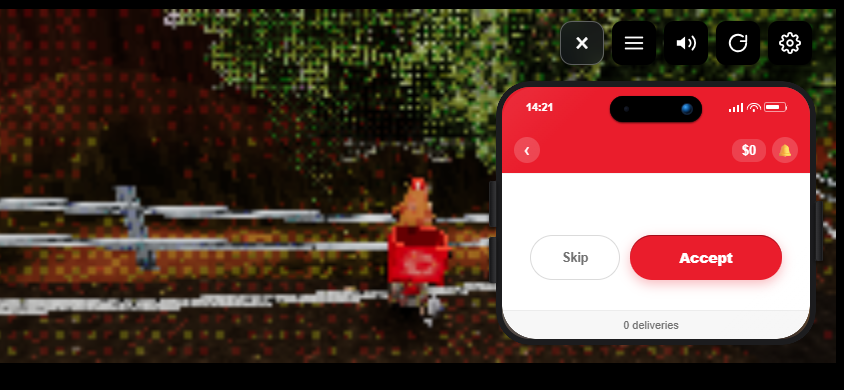
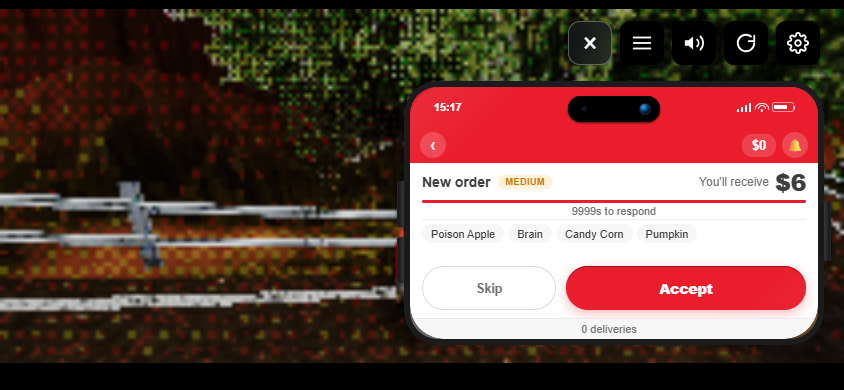
fix(mobile): preserve input startup through slow loading and fit landscape offers

diff --git a/artifacts/capybara-delivery/src/lib/input/index.ts b/artifacts/capybara-delivery/src/lib/input/index.ts
@@ -43,12 +43,11 @@ export interface OkadaInputOptions {
 }
 
 const generations = new WeakMap<Window, { dispose?: () => void }>();
-const RESOLVE_TIMEOUT_MS = 60000;
 const RESOLVE_POLL_MS = 250;
 
 /**
  * Initialize the Okada input system against a game iframe.
- * Returns null if the engine input object could not be resolved (or was aborted).
+ * Waits for normal engine startup; returns null if this generation is cancelled.
  */
 export async function initOkadaInput(
   win: Window,
@@ -62,29 +61,40 @@ export async function initOkadaInput(
   const adapter = new OkadaEngineAdapter();
   const touch = new TouchInputSource(doc, manager);
   const gamepad = new GamepadInputSource(manager);
+  const pending = new AbortController();
+  let pendingDisposed = false;
+  const removePendingListeners = () => {
+    win.removeEventListener("pagehide", disposePending);
+    options.signal?.removeEventListener("abort", disposePending);
+  };
+  const disposePending = () => {
+    if (pendingDisposed) return;
+    pendingDisposed = true;
+    pending.abort();
+    removePendingListeners();
+    touch.detach();
+    gamepad.stop();
+  };
+  generation.dispose = disposePending;
+  win.addEventListener("pagehide", disposePending);
+  options.signal?.addEventListener("abort", disposePending, { once: true });
 
   // Attach the HUD/controls immediately so the menu (SHOP), orientation barrier,
   // shop shell and studio signature exist before the engine input object resolves.
   if (options.touchControls !== false) {
     touch.attach();
-    generation.dispose = () => {
-      touch.detach();
-      gamepad.stop();
-    };
   }
 
-  const resolved = await waitForInput(win, adapter, RESOLVE_TIMEOUT_MS, options.signal);
+  if (options.signal?.aborted) disposePending();
+  const resolved = await waitForInput(win, adapter, pending.signal);
+  removePendingListeners();
   if (!resolved || options.signal?.aborted || generations.get(win) !== generation) {
-    // Superseded or aborted: release the provisional touch UI (a plain resolve
-    // timeout keeps it so menu/orientation UX survives a slow engine start).
-    if (options.signal?.aborted || generations.get(win) !== generation) {
-      touch.detach();
-    }
-    // eslint-disable-next-line no-console
-    console.error("[okada] engine input object not resolved; normalized input unavailable");
+    disposePending();
     return null;
   }
 
+  // A menu gesture must not become held driving input when startup finishes.
+  touch.reset("engine-ready");
   adapter.override(manager);
   const game = (win as unknown as { __capyGame?: { store?: StoreMotionTarget } }).__capyGame;
   const motionPolicy = game?.store ? installRyderStoreMotionPolicy(game.store) : null;
@@ -149,26 +159,28 @@ export async function initOkadaInput(
 async function waitForInput(
   win: Window,
   adapter: OkadaEngineAdapter,
-  timeoutMs: number,
-  signal?: AbortSignal,
+  signal: AbortSignal,
 ): Promise<boolean> {
-  const start = Date.now();
   return new Promise((resolve) => {
+    let timer: ReturnType<typeof setTimeout> | undefined;
+    const finish = (ready: boolean) => {
+      clearTimeout(timer);
+      signal.removeEventListener("abort", cancel);
+      resolve(ready);
+    };
+    const cancel = () => finish(false);
     const tick = () => {
-      if (signal?.aborted) {
-        resolve(false);
+      if (signal.aborted) {
+        finish(false);
         return;
       }
       if (adapter.resolve(win)) {
-        resolve(true);
+        finish(true);
         return;
       }
-      if (Date.now() - start > timeoutMs) {
-        resolve(false);
-        return;
-      }
-      setTimeout(tick, RESOLVE_POLL_MS);
+      timer = setTimeout(tick, RESOLVE_POLL_MS);
     };
+    signal.addEventListener("abort", cancel, { once: true });
     tick();
   });
 }

diff --git a/artifacts/capybara-delivery/src/lib/input/sources/touch.ts b/artifacts/capybara-delivery/src/lib/input/sources/touch.ts
@@ -574,17 +574,29 @@ export class TouchInputSource {
           transform: none !important; max-height: none !important;
         }
         #phone-hud.phone-visible .phone-shell { max-height: none !important; }
-        #phone-hud .phone-frame { width: min(320px, 48vw); }
+        #phone-hud .phone-frame { width: min(420px, 60vw); }
         #phone-hud .phone-screen {
           height: calc(100dvh - var(--embed-bar, 0px) - var(--okada-safe-top) - var(--okada-safe-bottom) - 110px);
         }
         #phone-hud .home-screen { padding-top: 24px; overflow-y: auto; }
         #phone-hud .app-icon { min-height: 64px; }
-        #phone-hud .app-content { min-height: 0; overflow-y: auto !important; }
-        /* Short landscape screens scroll the complete offer instead of clipping
-           its action footer beneath the Phone footer. Keep native button sizes. */
-        #phone-hud .offer-screen { flex: 0 0 auto; min-height: 300px; }
-        #phone-hud .offer-body { flex: none; overflow: visible; }
+        #phone-hud .app-titlebar { flex-shrink: 0; padding: 5px 10px; }
+        #phone-hud .app-footer { flex-shrink: 0; padding: 4px 10px; }
+        #phone-hud .app-content { min-height: 0; padding: 4px 8px; overflow-y: auto !important; }
+        /* Fit the offer to the available landscape screen. Keep actions in the
+           card; only the item list scrolls if text or a short viewport needs it. */
+        #phone-hud .app-content:has(.offer-screen:not([style*="display: none"]):not([style*="display:none"])) { overflow: hidden !important; }
+        #phone-hud .offer-screen { flex: 1 1 auto; height: 100%; min-height: 0; padding: 0 4px; }
+        #phone-hud .offer-hero { flex-shrink: 0; flex-direction: row; justify-content: space-between; padding: 2px 0; gap: 8px; }
+        #phone-hud .offer-title-row { justify-content: flex-start; }
+        #phone-hud .offer-reward-row { flex-direction: row; gap: 6px; }
+        #phone-hud .offer-reward { font-size: 24px; }
+        #phone-hud .offer-timer-bar { flex-shrink: 0; margin: 3px 0 2px; }
+        #phone-hud .offer-timer-label { flex-shrink: 0; margin-bottom: 2px; }
+        #phone-hud .offer-body { flex: 1 1 auto; min-height: 0; overflow-y: auto; padding-top: 2px; }
+        #phone-hud .offer-items { padding: 2px 0; gap: 4px; }
+        #phone-hud .offer-actions { flex-shrink: 0; margin-top: 2px; padding: 2px 0 4px; }
+        #phone-hud .btn-offer-accept, #phone-hud .btn-offer-skip { min-height: 44px; padding: 8px 12px; }
       }
 
       /* Left-Thumb Floating Joystick (360° circular gate, dynamic origin) */

diff --git a/docs/ux/PHASE_2D_R2_MOBILE_RETEST_CORRECTION.md b/docs/ux/PHASE_2D_R2_MOBILE_RETEST_CORRECTION.md
@@ -1,0 +1,51 @@
+# Phase 2D-R2 — physical retest correction
+
+Starting committed SHA: `6875ab545df46ea972af246399b9e0afc0eacf5c`. This is a mobile correction, NOT Stats implementation. The user physically retested the preview and reported: Phone opens/closes in landscape, but its content requires scrolling; after accepting an order, visible GAS/Brake controls do not work. This feedback does not constitute physical acceptance of the candidate. Phase 3A Stage B remains on hold.
+
+## Proven startup defect
+
+The React shell calls initOkadaInput once when its iframe loads. The input module attached visible touch UI immediately, then gave up resolving canonical world._lastInput after 60 seconds. A player can wait in the menu longer than that, and normal mobile startup itself can take longer. On timeout the provisional UI deliberately remained, but adapter.override was never called and no retry was scheduled. Phone buttons could still work through their separate canonical Phone API while gameplay contributions remained disconnected.
+
+A reproduction served the actual previously built React application, not a handwritten iframe harness. After a long menu wait it logged the exact startup-unavailable error and reached normal gameplay at 145465ms with ready=false. The later baseline offer step timed out on a hidden Accept control; that incomplete replay is not claimed as an end-to-end pre-fix order reproduction. The startup disconnection itself is established by the log, source and failing focused regressions, and matches the user's physical observation.
+
+The previous R1 harness concealed this defect by calling initOkadaInput again after body.in-game appeared. Passing that test did not prove the real one-initialization application path.
+
+## Correction
+
+Input resolution now waits for engine readiness for the lifetime of the current iframe generation, without an arbitrary menu/loading deadline. It polls at the existing 250ms interval. Abort, pagehide and replacement generation cancel polling and clean up provisional UI immediately; cancellation cleanup is idempotent so an old generation cannot remove a replacement's UI. Startup clears provisional held touches before connecting. EngineAdapter, InputManager, canonical getters, physics, R3, joystick and combined Brake/Reverse logic remain unchanged.
+
+The R1 suite now awaits its original pre-game initialization promise, rather than restarting input after Play. A new production-app test serves dist/public and drives the real React iframe after a >60-second menu delay. It never injects an input bundle, initializes input manually or reinitializes it. Tutorial completion, Phone unlock and generation of a real Hard offer are explicit QA fixtures; trusted browser touches open the app, accept, close and drive. It waits for the unlock animation to finish before tapping a moving icon.
+
+## Landscape Phone correction
+
+The existing forced 300px minimum offer height caused the whole card, including its actions, to scroll out of a short viewport. The owned landscape CSS now gives the Phone more width, uses a compact horizontal heading/reward, fits the offer to the available app content, and preserves at least 44px Accept/Skip targets. The actions do not scroll out of the card; only the item list can overflow when necessary. This is not a promise that every possible translated item list fits without any scrolling on every phone.
+
+Actual React-shell Hard-offer measurements: Accept is visible and unobstructed without scrolling the app at 844x390, 780x360 and 667x375. The item list needed 13px overflow at 780x360; the other tested sizes needed none. No card content is hidden merely to achieve the fit.
+
+## Validation
+
+| Check | Result |
+| --- | --- |
+| Actual production React app, long menu → normal Play → Capy Food → Accept → Close → driving | 12/12 PASS, zero runtime errors, zero startup-unavailable errors |
+| Original production initialization after late Play | ready=true; normal gameplay entered at 145727ms |
+| Actual post-order movement | throttle=1, steer=0.5, canonical forward=true, forwardSpeed=0.099851 |
+| Combined Brake/Reverse after Accept | normalized reverse=1 and canonical backward=true |
+| Startup/lifecycle regression | 8/8 PASS, including late readiness, actual getter input, abort, replacement, pagehide and no leftover timers |
+| Strengthened R1, no reinitialization workaround | 33/33 PASS, zero runtime errors |
+| Idle stability | 1201 completed updates, 20537ms, zero runtime errors |
+| Post-order stability | 1200 completed updates, 19983ms, zero runtime errors |
+| Existing Phase 2D | 30/30 PASS, zero runtime errors |
+| Audio lifecycle | 12/12 PASS |
+| Strict input typecheck | PASS |
+| Production build | PASS; existing tooltip sourcemap warning remains nonfatal |
+| Canonical SHA-256 | C7E6C0AE11C358DCA1E51B9CC1CB0C971DE97659094E1D8D2C27D81D9AE4682E, unchanged |
+
+Evidence: `docs/ux/evidence/mobile-retest-{production,startup-unit,r1,phase2d,audio,typecheck,build}.log`. The pre-fix diagnostic and backup remain in the task workspace. New production screenshot: `docs/ux/screenshots/mobile_retest_driving.png`; the R1 screenshot set reflects the compact Phone offer. QA may freeze the offer timer to allow screenshots; that is not a production timer change.
+
+## Scope/status
+
+Production changes: `src/lib/input/index.ts` lifecycle handling and `src/lib/input/sources/touch.ts` landscape CSS only. Tests: corrected `verify-phase2d-r1.mjs`, new `verify-input-startup.mjs` and `verify-mobile-production.mjs`. No canonical bundle, EngineAdapter, InputManager, R3, joystick, Brake/Reverse semantics, audio implementation, Stats/API/database or deployment configuration changes.
+
+Changes remain LOCAL and uncommitted. No push or deployment is performed. The existing phone-test URL still serves 6875ab5, so these corrections cannot be physically accepted until a new preview is explicitly authorized/deployed and tested. The Phase 3A audit documents and unrelated pre-existing work remain preserved. Physical verification of this correction remains pending.
+
+Final local verdict: **READY TO DEPLOY FOR ANOTHER PHYSICAL RETEST**, not physically accepted. All automated gates above pass. The 31 pre-existing dirty/untracked files match the earlier manifest; audit documents remain untouched. No new commit or push. Existing preview still serves 6875ab5.
